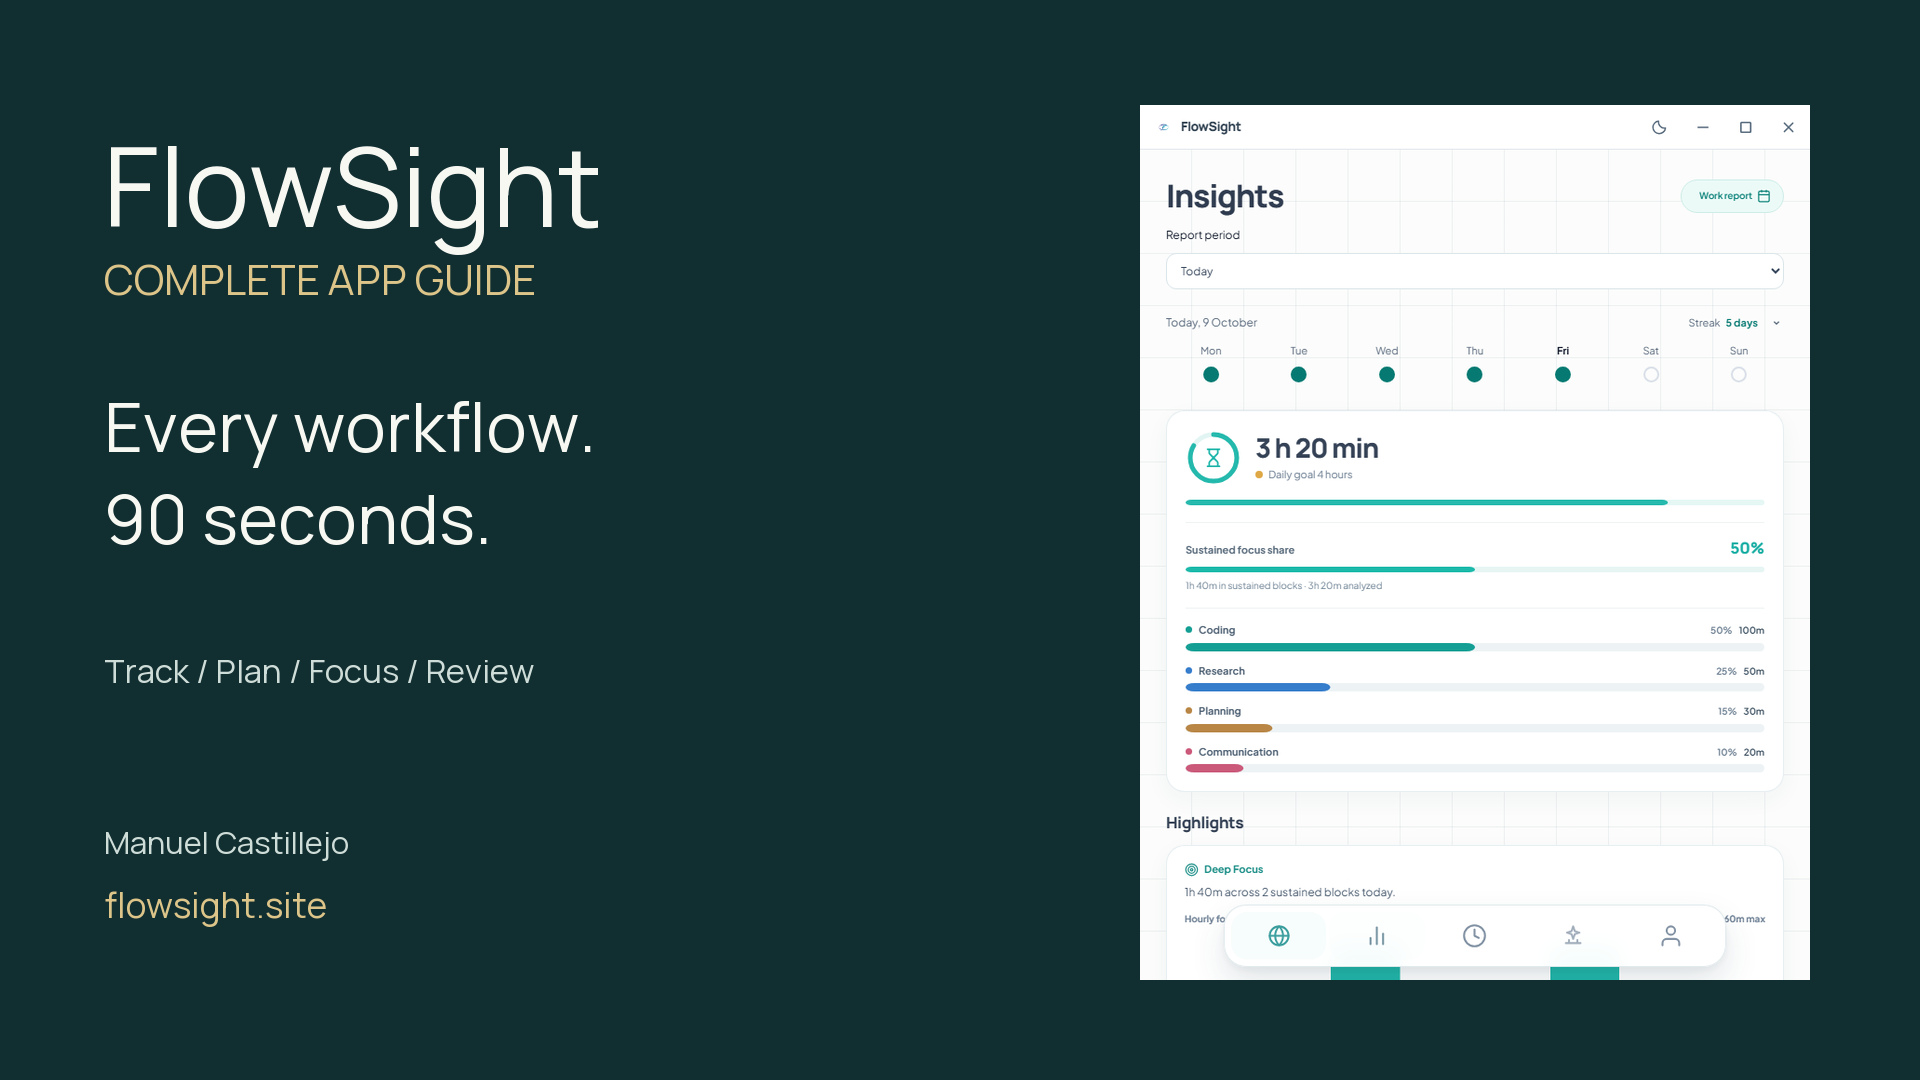
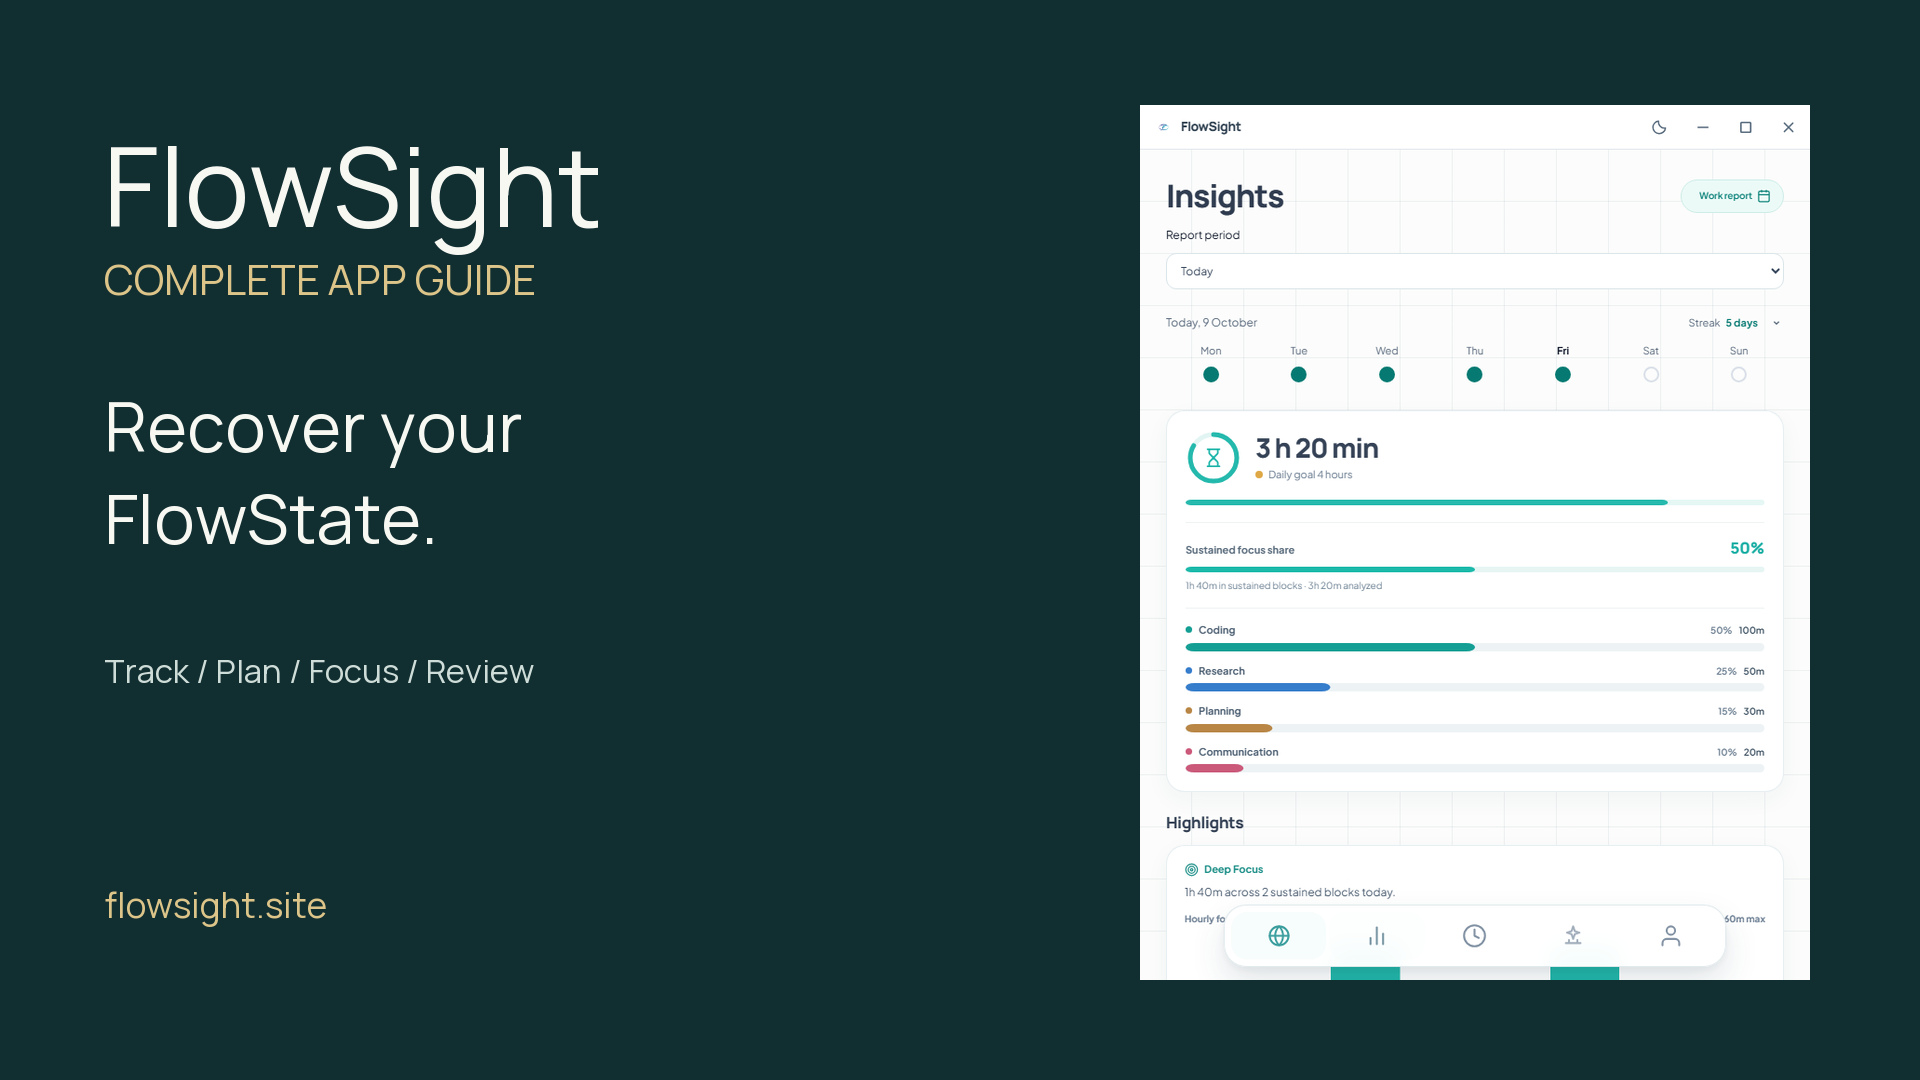
Publish the revised Welcome to FlowSight guide

Changed region(s): [[0.0625, 0.3667, 0.3125, 0.4278], [0.0625, 0.4583, 0.25, 0.5194], [0.0625, 0.7639, 0.1875, 0.7944]]

diff --git a/src/components/app-guide.tsx b/src/components/app-guide.tsx
@@ -1,6 +1,6 @@
 import styles from "@/app/offer-preview/preview.module.css";
 
-const videoUrl = "https://mancasvel.github.io/flowsight-guides/assets/complete-guide/FlowSight-Complete-Guide-EN.mp4?v=17d537e84be9";
+const videoUrl = "https://mancasvel.github.io/flowsight-guides/assets/complete-guide/FlowSight-Complete-Guide-EN.mp4?v=6f5b7d037cfc";
 const guideUrl = "https://mancasvel.github.io/flowsight-guides/app-guide/";
 
 export function AppGuide() {
@@ -20,7 +20,7 @@ export function AppGuide() {
         aria-describedby="app-guide-description app-guide-note"
       >
         <source src={videoUrl} type="video/mp4" />
-        <track kind="captions" src="/product/flowsight-complete-guide.vtt" srcLang="en" label="English" />
+        <track kind="captions" src="/product/flowsight-complete-guide.vtt?v=6f5b7d037cfc" srcLang="en" label="English" />
         Your browser does not support this video. <a href={guideUrl}>Watch the guide and read the transcript.</a>
       </video>
       <div className={styles.guideDetails}>

diff --git a/src/app/page.tsx b/src/app/page.tsx
@@ -47,7 +47,7 @@ export default function Home() {
         name: "FlowSight Complete App Guide",
         description: "A tour of FlowSight: task tracking, Pomodoro, local AI planning, Total Focus, Insights, reports, optional Cloud, MCP and privacy controls.",
         thumbnailUrl: absoluteUrl("/product/flowsight-complete-guide.jpg"),
-        contentUrl: "https://mancasvel.github.io/flowsight-guides/assets/complete-guide/FlowSight-Complete-Guide-EN.mp4?v=17d537e84be9",
+        contentUrl: "https://mancasvel.github.io/flowsight-guides/assets/complete-guide/FlowSight-Complete-Guide-EN.mp4?v=6f5b7d037cfc",
         uploadDate: "2026-10-11T14:49:27Z",
         duration: "PT1M30S",
         inLanguage: "en",

diff --git a/.impeccable/surfaces/src-app-offer-preview-page-tsx.md b/.impeccable/surfaces/src-app-offer-preview-page-tsx.md
@@ -27,7 +27,7 @@ The owner removed the introductory “From intention to your next decision” bl
 ## Narrative and interaction
 
 1. **Promise and context.** “Understand your work.” introduces plan, focus and review. `ContextDemo` compares app activity with local-AI context through Building, Researching and Planning examples. Pressed states, selected dots and a polite live result explain the change. “Interactive example” and “Illustrative data, not a live AI session” remain visible. These durations are separate from the app-capture and weekly-report datasets.
-2. **Complete app guide.** The hero’s “Watch the guide” action goes to `#app-guide`, after the principles and before the app explorer. “See FlowSight in action.” introduces the existing 90-second guide from the first task to the work report, covering planning, Pomodoro, Total Focus, Insights and data controls. `AppGuide` uses a native 16:9 player with inline playback, `preload="none"` and no autoplay. Its poster keeps the original app capture without the English / 01:30 badge. Embedded English captions remain in the video; the local VTT track is optional rather than selected by default. A visible note identifies English narration/captions, FlowSight 6.1.0, illustrative demo data and plan-dependent Cloud features. “Chapters and transcript” links to the published guide. The existing split introduction stacks at 800px, and the note/link become one reading sequence below the full-width player.
+2. **Complete app guide.** The hero’s “Watch the guide” action goes to `#app-guide`, after the principles and before the app explorer. “See FlowSight in action.” introduces the existing 90-second guide from the first task to the work report, covering planning, Pomodoro, Total Focus, Insights and data controls. `AppGuide` uses a native 16:9 player with inline playback, `preload="none"` and no autoplay. Its poster keeps the original app capture with “Recover your FlowState.” and no personal attribution or duration/language badge. The narration opens “Welcome to FlowSight. Recover your FlowState.”; the closing and persistent footer also omit personal attribution. Embedded English captions remain in the video; the local VTT track is optional rather than selected by default. A visible note identifies English narration/captions, FlowSight 6.1.0, illustrative demo data and plan-dependent Cloud features. “Chapters and transcript” links to the published guide. The existing split introduction stacks at 800px, and the note/link become one reading sequence below the full-width player.
 3. **Current app.** `ProductExplorer` defaults to Insights and switches to Today through keyboard-operated tabs. It explains recorded time, work categories, sustained focus, Daily Flow, reporting periods, normal/Pomodoro modes, daily goals, session planning and total focus. The caption reads “FlowSight 6.1.0 · Windows” with “Example activity”.
 4. **Planning.** The retained “A plan built around your actual day” explanation follows Describe → Adjust → Confirm. A native `CalendarExample` shows the intention, suggested work and an existing commitment. The fine print keeps local planning, FlowSight's default calendar and connected-calendar eligibility explicit. The figure is labelled “Illustrative calendar · example data”.
 5. **Weekly report.** “Your week. With perspective.” pairs reporting copy with a native `WeeklyReportExample`: recorded time, sustained focus, observed-day coverage, five daily bars, two observations and an illustrative next step. The figure is labelled “Illustrative report · example data, not a live analysis”. The surrounding copy identifies report periods, local PDF options and the app's data-coverage/origin labels.

diff --git a/public/product/README.md b/public/product/README.md
@@ -1,6 +1,6 @@
 # Product capture provenance
 
-`flowsight-complete-guide.jpg` is the FlowSight guide's locally rebuilt 1920x1080 thumbnail. It uses the original FlowSight 6.1.0 Insights renderer capture with fictional demonstration records, Manrope typography and the guide's teal/off-white/gold palette. The language/duration badge was removed at the owner's request. The source is `growth/video/build-thumbnail.py` in the existing E: project; the current 90-second video has locally synthesized neural English narration, original chill music and embedded captions. It is not a live native/cloud/model recording.
+`flowsight-complete-guide.jpg` is the FlowSight guide's locally rebuilt 1920x1080 thumbnail. It uses the original FlowSight 6.1.0 Insights renderer capture with fictional demonstration records, Manrope typography and the guide's teal/off-white/gold palette. The owner's revised opening is Welcome to FlowSight. Recover your FlowState. Personal attribution and the duration/language badge were removed from the poster and video branding. The source is `growth/video/build-thumbnail.py` in the existing E: project; the current 90-second video has locally synthesized neural English narration, original chill music and embedded captions. It is not a live native/cloud/model recording.
 
 These two images capture the unmodified **FlowSight 6.1.0 Windows renderer**
 at commit `1773d97`, from
